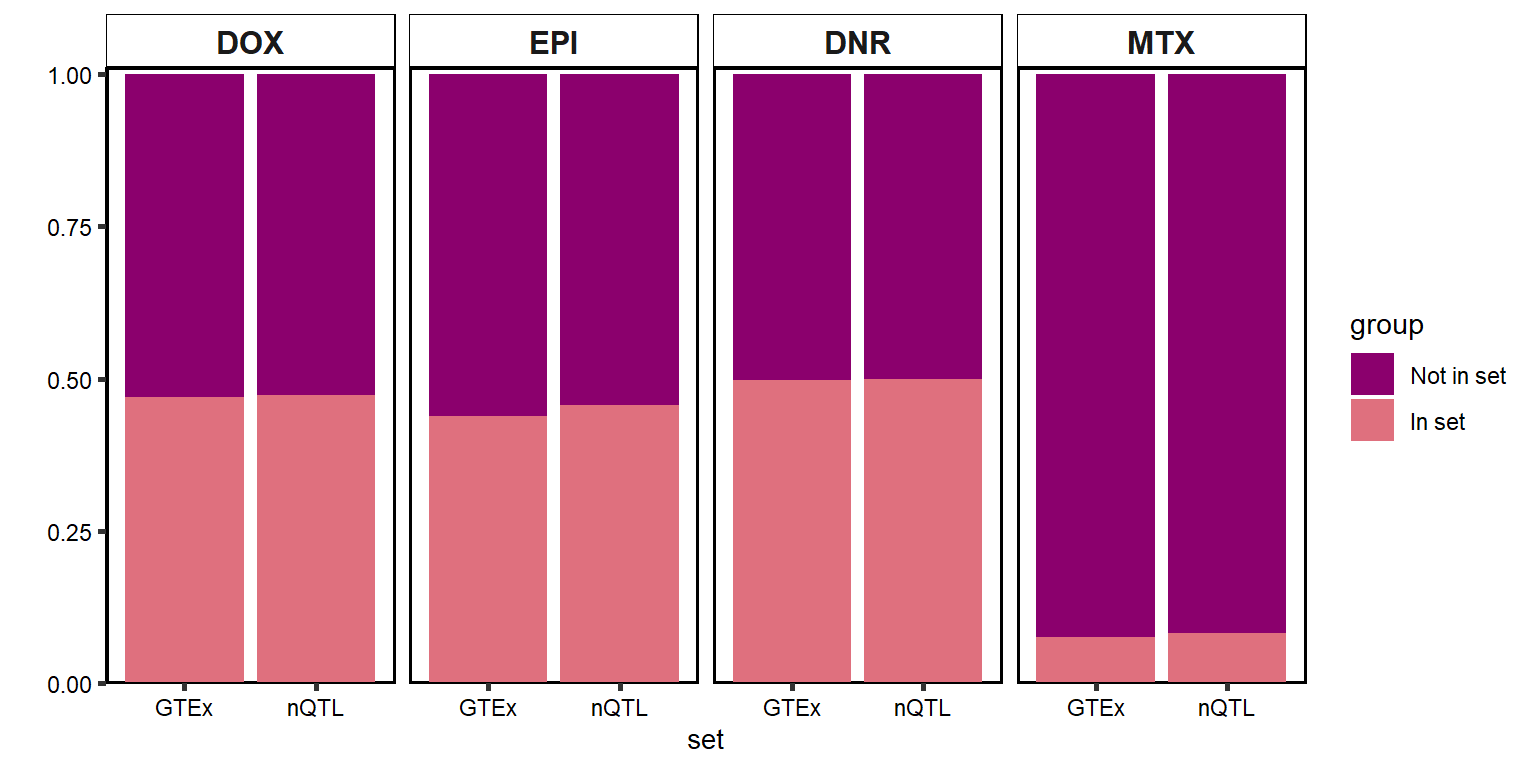
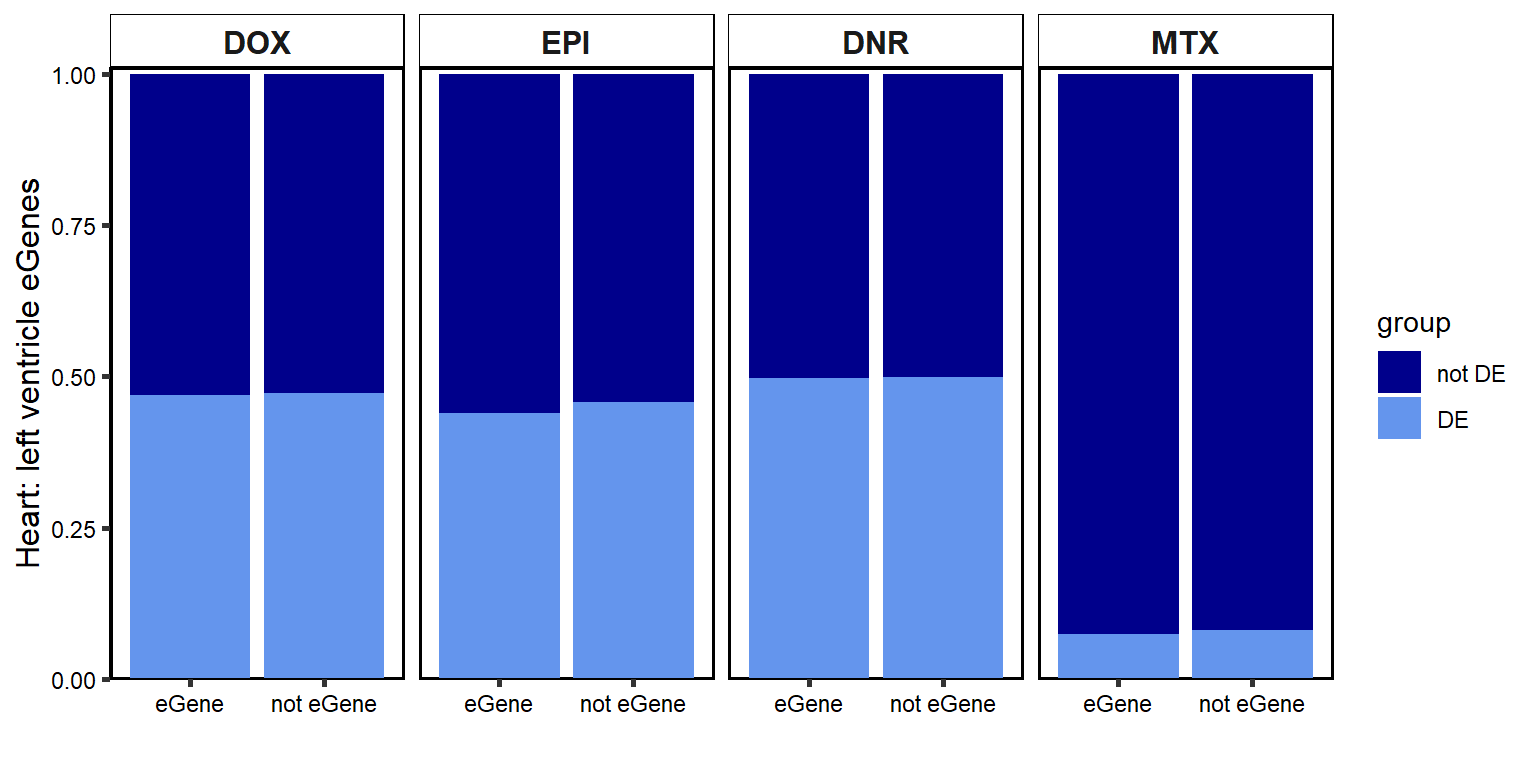
Build site.

diff --git a/docs/Figure8.html b/docs/Figure8.html
@@ -11,11 +11,11 @@
 
 <meta name="author" content="ERM" />
 
-<meta name="date" content="2023-07-07" />
+<meta name="date" content="2023-07-10" />
 
 <title>Figure 8</title>
 
-<script src="site_libs/header-attrs-2.22/header-attrs.js"></script>
+<script src="site_libs/header-attrs-2.23/header-attrs.js"></script>
 <script src="site_libs/jquery-3.6.0/jquery-3.6.0.min.js"></script>
 <meta name="viewport" content="width=device-width, initial-scale=1" />
 <link href="site_libs/bootstrap-3.3.5/css/flatly.min.css" rel="stylesheet" />
@@ -361,7 +361,7 @@ div.tocify {
 
 <h1 class="title toc-ignore">Figure 8</h1>
 <h4 class="author">ERM</h4>
-<h4 class="date">2023-07-07</h4>
+<h4 class="date">2023-07-10</h4>
 
 </div>
 
@@ -390,7 +390,7 @@ class="glyphicon glyphicon-ok text-success" aria-hidden="true"></span>
 <div class="tab-content">
 <div id="summary" class="tab-pane fade in active">
 <p>
-<strong>Last updated:</strong> 2023-07-07
+<strong>Last updated:</strong> 2023-07-10
 </p>
 <p>
 <strong>Checks:</strong> <span
@@ -521,15 +521,15 @@ project makes it easier to run your code on other machines.</p>
 <div class="panel panel-default">
 <div class="panel-heading">
 <p class="panel-title">
-<a data-toggle="collapse" data-parent="#workflowr-checks" href="#strongRepositoryversionstrongahrefhttpsgithubcomreneeisnowhereCardiotoxicitytree5930353189caf135571cb1cc4c869012bdb659b4targetblank5930353a">
+<a data-toggle="collapse" data-parent="#workflowr-checks" href="#strongRepositoryversionstrongahrefhttpsgithubcomreneeisnowhereCardiotoxicitytree8549513ce7d2849e1c8ead030e08c5aa452b98cbtargetblank8549513a">
 <span class="glyphicon glyphicon-ok text-success"
 aria-hidden="true"></span> <strong>Repository version:</strong>
-<a href="https://github.com/reneeisnowhere/Cardiotoxicity/tree/5930353189caf135571cb1cc4c869012bdb659b4" target="_blank">5930353</a>
+<a href="https://github.com/reneeisnowhere/Cardiotoxicity/tree/8549513ce7d2849e1c8ead030e08c5aa452b98cb" target="_blank">8549513</a>
 </a>
 </p>
 </div>
 <div
[2 lines of base64/hex data omitted]
 class="panel-collapse collapse">
 <div class="panel-body">
 <p>
@@ -539,7 +539,7 @@ reproducibility.
 </p>
 <p>
 The results in this page were generated with repository version
-<a href="https://github.com/reneeisnowhere/Cardiotoxicity/tree/5930353189caf135571cb1cc4c869012bdb659b4" target="_blank">5930353</a>.
+<a href="https://github.com/reneeisnowhere/Cardiotoxicity/tree/8549513ce7d2849e1c8ead030e08c5aa452b98cb" target="_blank">8549513</a>.
 See the <em>Past versions</em> tab to see a history of the changes made
 to the R Markdown and HTML files.
 </p>
@@ -736,6 +736,7 @@ Unstaged changes:
     Modified:   Cardiotoxicity.Rproj
     Modified:   analysis/DRC_analysis.Rmd
     Modified:   analysis/GOI_plots.Rmd
+    Modified:   analysis/Knowles2019.Rmd
     Modified:   analysis/Supplementary_figures.Rmd
     Modified:   analysis/other_analysis.Rmd
     Modified:   output/DNRmeSNPs.RDS
@@ -748,8 +749,6 @@ Unstaged changes:
     Modified:   output/MTXmeSNPs.RDS
     Modified:   output/MTXreQTLs.RDS
     Modified:   output/TNNI_LDH_RNAnormlist.txt
-    Modified:   output/knowles4.RDS
-    Modified:   output/knowles5.RDS
     Modified:   output/toplistall.csv
 
 </code></pre>
@@ -796,6 +795,40 @@ Message
 </tr>
 </thead>
 <tbody>
+<tr>
+<td>
+Rmd
+</td>
+<td>
+<a href="https://github.com/reneeisnowhere/Cardiotoxicity/blob/8549513ce7d2849e1c8ead030e08c5aa452b98cb/analysis/Figure8.Rmd" target="_blank">8549513</a>
+</td>
+<td>
+reneeisnowhere
+</td>
+<td>
+2023-07-10
+</td>
+<td>
+updated names and color sets
+</td>
+</tr>
+<tr>
+<td>
+html
+</td>
+<td>
+<a href="https://rawcdn.githack.com/reneeisnowhere/Cardiotoxicity/ed18a48b2f89247da196d697d017eb73591027e6/docs/Figure8.html" target="_blank">ed18a48</a>
+</td>
+<td>
+reneeisnowhere
+</td>
+<td>
+2023-07-07
+</td>
+<td>
+Build site.
+</td>
+</tr>
 <tr>
 <td>
 Rmd
@@ -974,7 +1007,7 @@ GTEx &lt;- intersect(GTEx_genes$entrezgene_id,my_exp_genes$ENTREZID)
 ## exclude GTEX and create nQTL set with other expressed genes
 nQTLmy &lt;- my_exp_genes %&gt;%
    dplyr:: filter(!ENTREZID %in%GTEx)
-drug_palspc &lt;- c(&quot;#8B006D&quot;,&quot;#DF707E&quot;,&quot;#8B006D&quot;,&quot;#DF707E&quot;)
+drug_palspc &lt;- c(&quot;darkblue&quot;,&quot;cornflowerblue&quot;,&quot;darkblue&quot;,&quot;cornflowerblue&quot;)
 drug_pal_fact &lt;- c(&quot;#8B006D&quot; ,&quot;#DF707E&quot;, &quot;#F1B72B&quot; ,&quot;#3386DD&quot;, &quot;#707031&quot;,&quot;#41B333&quot;)
 #GET nQTL umbers
 nQTLsum &lt;- toplistall %&gt;%
@@ -1019,11 +1052,9 @@ GTEXcr8z &lt;- GTExsum %&gt;%
   pivot_longer(cols=n:total, 
                names_to=&quot;group&quot;,
                values_to=&quot;total&quot;) %&gt;%
-  mutate(group=case_match(group,
-                          &quot;n&quot;~&quot;In set&quot;,
-                          &quot;total&quot;~&quot;Not in set&quot;,
-                          .default = group))  %&gt;%
-  mutate(group=factor(group,levels = c(&quot;Not in set&quot; ,&quot;In set&quot;))) #%&gt;% 
+   mutate(group=factor(group,levels = c(&quot;total&quot;, &quot;n&quot;),labels=c(&quot;not DE&quot;,&quot;DE&quot;))) %&gt;% 
+  mutate(set=factor(set,levels = c(&quot;GTEx&quot;,&quot;nQTL&quot;), labels =c(&quot;eGene&quot;, &quot;not eGene&quot;)))
+
  
 GTEXcr8z %&gt;% 
   ggplot(., aes(x=set,y=total, fill=group))+
@@ -1031,7 +1062,8 @@ GTEXcr8z %&gt;%
   facet_wrap(~id,nrow=2,ncol=4)+
   theme_classic()+
   scale_fill_manual(values=drug_palspc)+
-  ylab(&quot; &quot;)+
+  ylab(&quot;Heart: left ventricle eGenes&quot;)+
+  xlab(&quot;&quot;)+
   scale_y_continuous( expand = expansion(c(0, 0.01))) +
   theme(strip.background = element_rect(fill = &quot;white&quot;,
                                         linetype=1, 
@@ -1039,7 +1071,7 @@ GTEXcr8z %&gt;%
         plot.title = element_text(size=12,
                                   hjust = 0.5,
                                   face=&quot;bold&quot;),
-        axis.title = element_text(size = 10, 
+        axis.title = element_text(size = 12, 
                                   color = &quot;black&quot;),
         axis.ticks = element_line(linewidth = 1.0),
         axis.text = element_text(color = &quot;black&quot;),
@@ -1083,30 +1115,25 @@ Knowles_count &lt;-
                names_to=&#39;QTL&#39;,
                values_to=&quot;gene_count&quot;) %&gt;%
   separate(QTL,into=c(&quot;QTL_type&quot;,&#39;group&#39;),sep = &#39;_&#39;) %&gt;% 
-  mutate(group=case_match(group,
-                          &quot;y&quot;~&quot;In set&quot;,
-                          &quot;n&quot;~&quot;Not in set&quot;,
-                          .default = group))  %&gt;%
   mutate(QTL_type =case_match(QTL_type, 
-                              &#39;K4&#39;~&#39;base QTLs&#39;,
-                              &#39;K5&#39;~&#39;reQTLs&#39;,.default = QTL_type)) %&gt;%
+                              &#39;K4&#39;~&#39;base\neGenes&#39;,
+                              &#39;K5&#39;~&#39;response\neGenes&#39;,.default = QTL_type)) %&gt;%
   mutate(time=factor(time, levels=c(&quot;3 hrs&quot;,&quot;24 hrs&quot;))) %&gt;% 
-  mutate(group=factor(group,levels = c(&quot;Not in set&quot; ,&quot;In set&quot;))) %&gt;% 
   group_by(id,time,QTL_type) %&gt;% 
   mutate(percent=gene_count/sum(gene_count)*100)  %&gt;% 
   ungroup() %&gt;% 
   filter(time==&quot;24 hrs&quot;) %&gt;% 
-  mutate(id=factor(id, levels = c(&#39;DOX&#39;,&#39;EPI&#39;,&#39;DNR&#39;,&#39;MTX&#39;,&#39;TRZ&#39;,&#39;VEH&#39;))) 
+  mutate(id=factor(id, levels = c(&#39;DOX&#39;,&#39;EPI&#39;,&#39;DNR&#39;,&#39;MTX&#39;,&#39;TRZ&#39;,&#39;VEH&#39;))) %&gt;%  mutate(group=factor(group, levels= c(&quot;n&quot;,&quot;y&quot;), labels=c(&quot;not DE&quot;,&quot;DE&quot;)))
   
   
   ggplot(Knowles_count, aes(x=QTL_type,y=gene_count, group=group,  fill=group))+
     geom_col(position=&#39;fill&#39;)+
     facet_wrap(~id,nrow=1,ncol=4)+
     theme_classic()+
-    ylab(&quot; &quot;)+
+    ylab(&quot;iPSC-CM DOX eGenes &quot;)+
     xlab(&quot; &quot;)+
-    scale_color_manual(values=drug_pal_fact)+
-    scale_fill_manual(values=drug_pal_fact)+
+    scale_color_manual(values=drug_palspc)+
+    scale_fill_manual(values=drug_palspc)+
     scale_y_continuous( expand = expansion(c(0, 0.01))) +
     theme(strip.background = element_rect(fill = &quot;white&quot;,
                                         linetype=1, 
@@ -1114,7 +1141,7 @@ Knowles_count &lt;-
         plot.title = element_text(size=12,
                                   hjust = 0.5,
                                   face=&quot;bold&quot;),
-        axis.title = element_text(size = 10, 
+        axis.title = element_text(size = 12, 
                                   color = &quot;black&quot;),
         axis.ticks = element_line(linewidth = 1.0),
         axis.text = element_text(color = &quot;black&quot;),
@@ -1237,11 +1264,12 @@ Session information
 </p>
 <div id="workflowr-sessioninfo" class="collapse">
 <pre class="r"><code>sessionInfo()</code></pre>
-<pre><code>R version 4.2.2 (2022-10-31 ucrt)
+<pre><code>R version 4.3.1 (2023-06-16 ucrt)
 Platform: x86_64-w64-mingw32/x64 (64-bit)
 Running under: Windows 10 x64 (build 19045)
 
 Matrix products: default
+
 
 locale:
 [1] LC_COLLATE=English_United States.utf8 
@@ -1250,33 +1278,36 @@ locale:
 [4] LC_NUMERIC=C                          
 [5] LC_TIME=English_United States.utf8    
 
+time zone: America/Chicago
+tzcode source: internal
+
 attached base packages:
 [1] stats     graphics  grDevices utils     datasets  methods   base     
 
 other attached packages:
  [1] broom_1.0.5         RColorBrewer_1.1-3  ggsignif_0.6.4     
- [4] cowplot_1.1.1       data.table_1.14.8   BiocGenerics_0.42.0
+ [4] cowplot_1.1.1       data.table_1.14.8   BiocGenerics_0.46.0
  [7] lubridate_1.9.2     forcats_1.0.0       stringr_1.5.0      
 [10] dplyr_1.1.2         purrr_1.0.1         readr_2.1.4        
 [13] tidyr_1.3.0         tibble_3.2.1        ggplot2_3.4.2      
 [16] tidyverse_2.0.0     workflowr_1.7.0    
 
 loaded via a namespace (and not attached):
- [1] Rcpp_1.0.10       getPass_0.2-2     ps_1.7.5          rprojroot_2.0.3  
- [5] digest_0.6.31     utf8_1.2.3        R6_2.5.1          backports_1.4.1  
- [9] evaluate_0.21     highr_0.10        httr_1.4.6        pillar_1.9.0     
-[13] rlang_1.1.1       rstudioapi_0.14   whisker_0.4.1     callr_3.7.3      
-[17] jquerylib_0.1.4   rmarkdown_2.22    textshaping_0.3.6 labeling_0.4.2   
-[21] munsell_0.5.0     compiler_4.2.2    httpuv_1.6.11     xfun_0.39        
-[25] pkgconfig_2.0.3   systemfonts_1.0.4 htmltools_0.5.5   tidyselect_1.2.0 
-[29] fansi_1.0.4       tzdb_0.4.0        withr_2.5.0       later_1.3.1      
-[33] grid_4.2.2        jsonlite_1.8.5    gtable_0.3.3      lifecycle_1.0.3  
-[37] git2r_0.32.0      magrittr_2.0.3    scales_1.2.1      cli_3.6.1        
-[41] stringi_1.7.12    cachem_1.0.8      farver_2.1.1      fs_1.6.2         
-[45] promises_1.2.0.1  bslib_0.5.0       ragg_1.2.5        generics_0.1.3   
-[49] vctrs_0.6.3       tools_4.2.2       glue_1.6.2        hms_1.1.3        
-[53] processx_3.8.1    fastmap_1.1.1     yaml_2.3.7        timechange_0.2.0 
-[57] colorspace_2.1-0  knitr_1.43        sass_0.4.6       </code></pre>
+ [1] gtable_0.3.3      xfun_0.39         bslib_0.5.0       processx_3.8.1   
+ [5] callr_3.7.3       tzdb_0.4.0        vctrs_0.6.3       tools_4.3.1      
+ [9] ps_1.7.5          generics_0.1.3    fansi_1.0.4       highr_0.10       
+[13] pkgconfig_2.0.3   lifecycle_1.0.3   compiler_4.3.1    farver_2.1.1     
+[17] git2r_0.32.0      textshaping_0.3.6 munsell_0.5.0     getPass_0.2-2    
+[21] httpuv_1.6.11     htmltools_0.5.5   sass_0.4.6        yaml_2.3.7       
+[25] later_1.3.1       pillar_1.9.0      jquerylib_0.1.4   whisker_0.4.1    
+[29] cachem_1.0.8      tidyselect_1.2.0  digest_0.6.32     stringi_1.7.12   
+[33] labeling_0.4.2    rprojroot_2.0.3   fastmap_1.1.1     grid_4.3.1       
+[37] colorspace_2.1-0  cli_3.6.1         magrittr_2.0.3    utf8_1.2.3       
+[41] withr_2.5.0       scales_1.2.1      promises_1.2.0.1  backports_1.4.1  
+[45] timechange_0.2.0  rmarkdown_2.23    httr_1.4.6        ragg_1.2.5       
+[49] hms_1.1.3         evaluate_0.21     knitr_1.43        rlang_1.1.1      
+[53] Rcpp_1.0.10       glue_1.6.2        rstudioapi_0.15.0 jsonlite_1.8.5   
+[57] R6_2.5.1          systemfonts_1.0.4 fs_1.6.2         </code></pre>
 </div>
 </div>
 </div>

diff --git a/docs/site_libs/header-attrs-2.23/header-attrs.js b/docs/site_libs/header-attrs-2.23/header-attrs.js
@@ -1,0 +1,12 @@
+// Pandoc 2.9 adds attributes on both header and div. We remove the former (to
+// be compatible with the behavior of Pandoc < 2.8).
+document.addEventListener('DOMContentLoaded', function(e) {
+  var hs = document.querySelectorAll("div.section[class*='level'] > :first-child");
+  var i, h, a;
+  for (i = 0; i < hs.length; i++) {
+    h = hs[i];
+    if (!/^h[1-6]$/i.test(h.tagName)) continue;  // it should be a header h1-h6
+    a = h.attributes;
+    while (a.length > 0) h.removeAttribute(a[0].name);
+  }
+});
